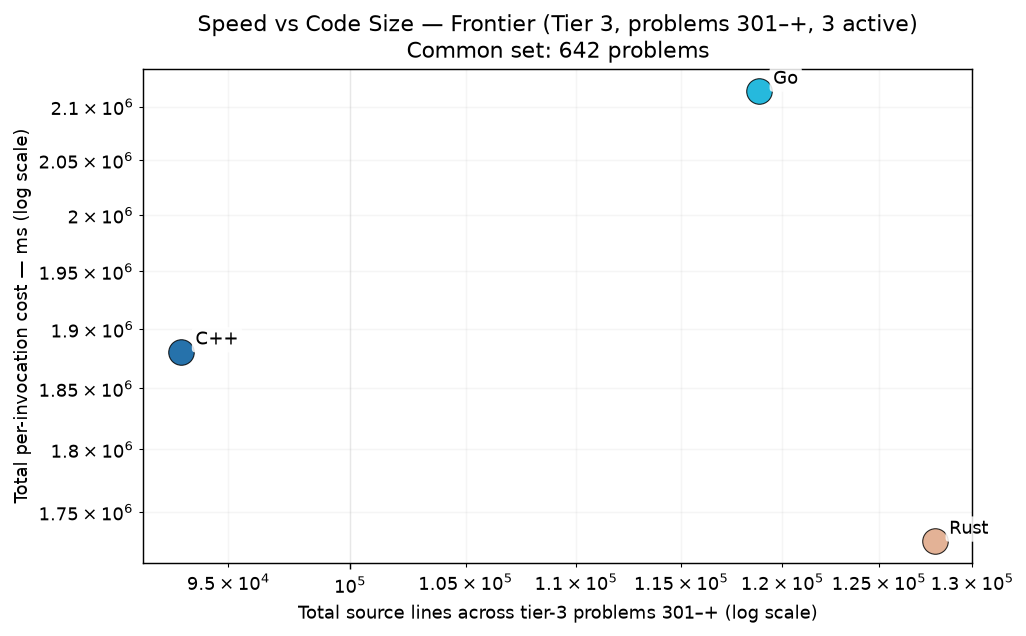
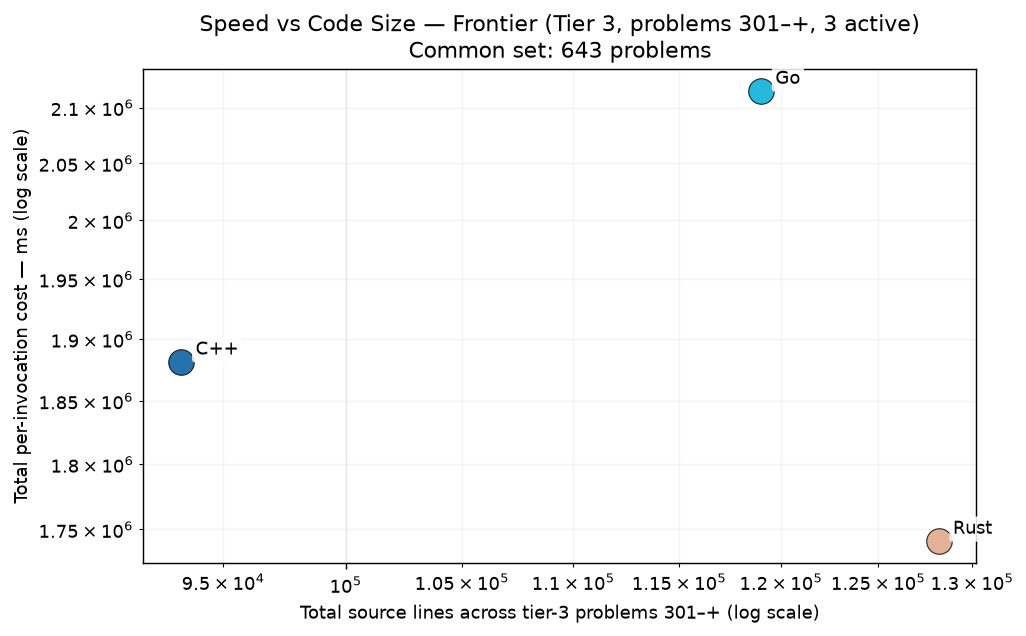
cpp p0769

diff --git a/RESULTS.md b/RESULTS.md
@@ -1,6 +1,6 @@
 # Project Euler — Cross-Language Benchmarks
 
-> **Scope: 4521 in-scope cells across 1007 problems × tiered languages — 4390 measured (97.1% coverage).**
+> **Scope: 4521 in-scope cells across 1007 problems × tiered languages — 4391 measured (97.1% coverage).**
 > The cross-language ranking below is computed over the **200-problem common set** (problems in 1-200 where every language has a passing measurement) — the apples-to-apples Foundation comparison surface.  Per-tier rankings and coverage detail appear further below.
 > Growing carefully — each new problem and language is audited for state-leak
 > safety, verified for answer correctness, and added only when it cleanly fits the
@@ -70,15 +70,15 @@ Same scatter as the Foundation chart, restricted to the tier-2 active languages 
 
 The frontier verification trio — C++, Go, Rust — on problems above 300. 3-way cross-language agreement is the verification protocol (strictly stronger than 2-way; see JOURNEY.md "Tier Reframing" episode for the p254 lesson that motivated it). Python and Zig are explicitly out of this tier — python's wall cost makes it impractical at level 5+, and zig's role caps at Tier 2.
 
-### Per-Invocation Cost (Common Set, 642 of ≤707 problems in scope)
+### Per-Invocation Cost (Common Set, 643 of ≤707 problems in scope)
 
 ![Per-Invocation Cost — Tier 3](charts/per_iter_total_tier3.png)
 
-| Rank | Language | Geomean (642-problem common set) | Total (sum) | Lines of code | vs Fastest |
+| Rank | Language | Geomean (643-problem common set) | Total (sum) | Lines of code | vs Fastest |
 |------|----------|--------------------:|------------:|--------------:|-----------:|
-| 1 | **Rust** | 72.91 ms | 1727.33 s | 127,961 | 1.00× |
-| 2 | **C++** | 76.02 ms | 1880.80 s | 93,120 | 1.04× |
-| 3 | **Go** | 86.44 ms | 2114.71 s | 118,810 | 1.19× |
+| 1 | **Rust** | 73.51 ms | 1741.30 s | 128,187 | 1.00× |
+| 2 | **C++** | 76.29 ms | 1881.51 s | 93,344 | 1.04× |
+| 3 | **Go** | 86.62 ms | 2115.04 s | 118,999 | 1.18× |
 
 ### Speed vs Code Size
 
@@ -264,7 +264,7 @@ table never silently mixes versions (METHODOLOGY.md §4).  Current state of the
 |----------|-----------|------:|---------------|
 | **ARM64** | `Apple clang version 21.0.0 (clang-2100.1.1.101)` | 200 | 2026-07-30 |
 | **C** | `Apple clang version 21.0.0 (clang-2100.1.1.101)` | 200 | 2026-07-30 |
-| **C++** | `Apple clang version 21.0.0 (clang-2100.1.1.101)` | 943 | 2026-09-05 |
+| **C++** | `Apple clang version 21.0.0 (clang-2100.1.1.101)` | 944 | 2026-09-05 |
 | **C#** | `10.0.101` | 200 | 2026-07-30 |
 | **Go** | `go version go1.26.5 darwin/arm64` | 945 | 2026-09-05 |
 | **Java** | `openjdk version "21.0.2" 2024-01-16 LTS` | 200 | 2026-07-30 |

diff --git a/per_problem/per_problem_0701-0800.md b/per_problem/per_problem_0701-0800.md
@@ -76,7 +76,7 @@ in tier-1 display order (native → managed → interpreted).
 | **p0766** | 12.77 s | 939.20 ms | 1.42 s |
 | **p0767** | 77.70 ms | 1.41 s | 78.20 ms |
 | **p0768** | 98.8 µs | 64.4 µs | 15.61 ms |
-| **p0769** | — | 13.96 s | 333.44 ms |
+| **p0769** | 713.92 ms | 13.96 s | 333.44 ms |
 | **p0770** | 158.21 ms | 158.17 ms | 158.29 ms |
 | **p0771** | 87.90 ms | 33.20 ms | 479.86 ms |
 | **p0772** | 482.43 ms | 483.46 ms | 484.02 ms |
